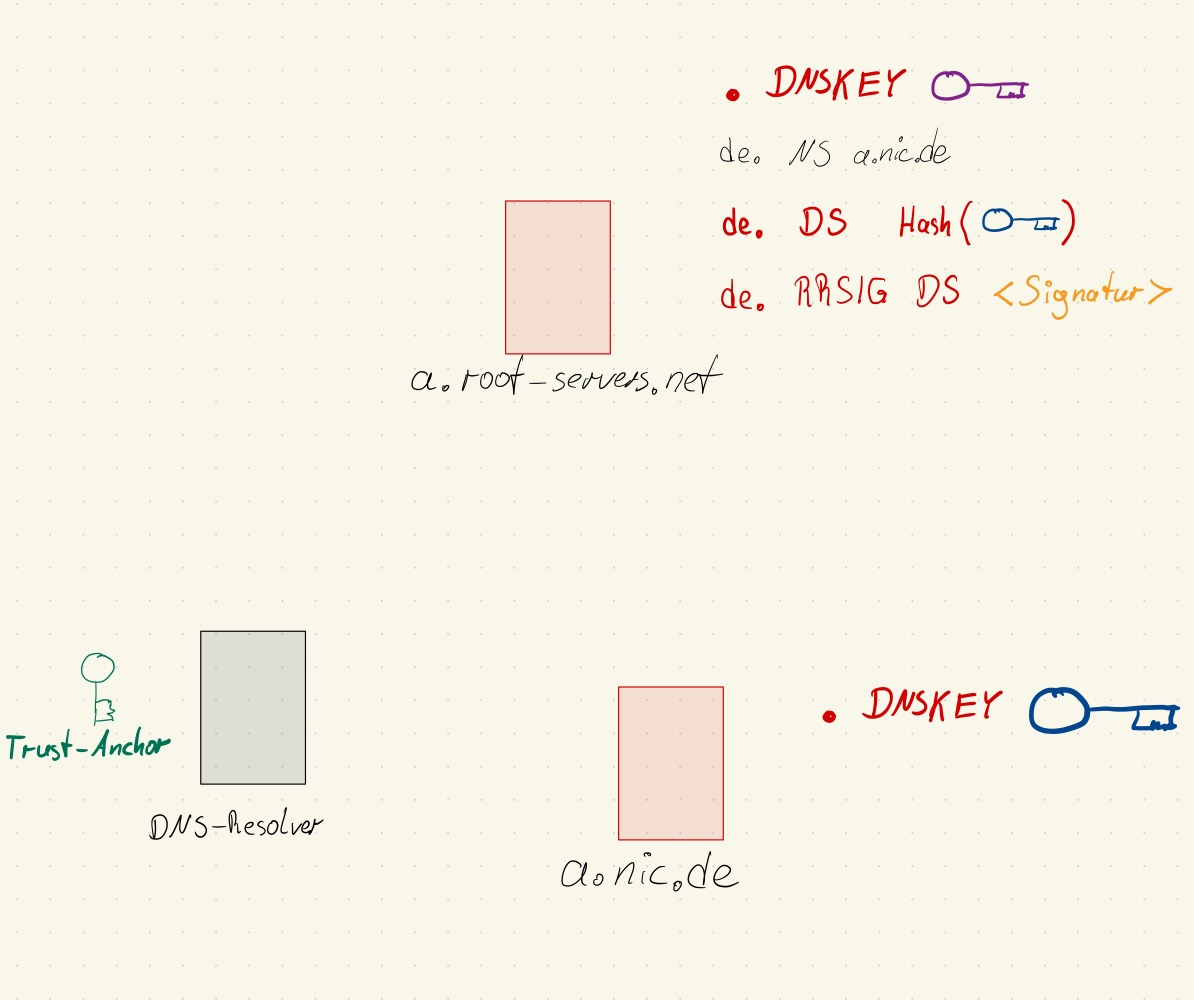
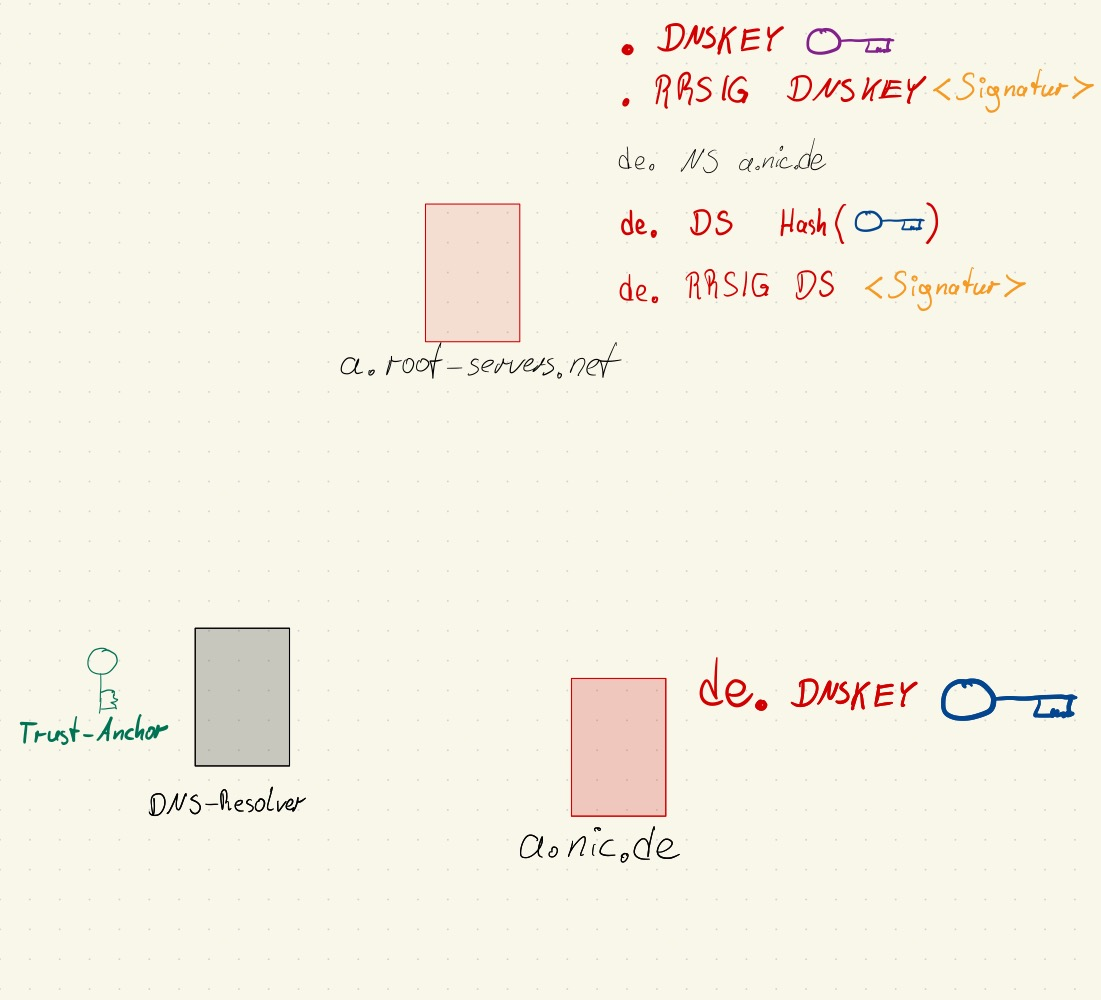
DNS-Abfrage mit DNSSEC hinzugefügt

diff --git a/LF10/lf10-01-dns2.md b/LF10/lf10-01-dns2.md
@@ -1,8 +1,8 @@
 <!--
 author:   Günter Dannoritzer
 email:    g.dannoritzer@wvs-ffm.de
-version:  0.12.0
-date:     19.08.2026
+version:  0.13.0
+date:     21.08.2026
 language: de
 narrator: Deutsch Female
 
@@ -342,9 +342,25 @@ Die rekursive Abfrage eines Resolvers nach `www.domain.de` mithilfe von DNSSEC l
 
 ## DNSSEC Konfiguration
 
+Für DNSSEC werden die zuvor besprochenen Records hinzugefügt. Die folgende Abbildung zeigt die Konfiguration des Root- und des de-Servers.
+
 ![Konfiguration für DNSSEC](02_img/lf10-01-dnssec-config.png)
+
 ## Rekursive Abfrage mit DNSSEC
 
- 1. Vor der eigentlichen DNS-Anfrage an den Root-Server fragt der DNS-Resolver den **DNSKEY** des Root-Servers ab. Der Schlüssel ist signiert und kann mit dem [**Root-Trust-Anchor**](https://data.iana.org/root-anchors/root-anchors.xml), einem öffentlichen Schlüssel, der im DNS-Resolver hinterlegt ist, überprüft werden.
- 2. Nachdem auf die Anfrage an den Root-Server der Verweis auf den `a.nic.de` geliefert wurde, wird mit eingeschaltetem DNSSEC auch das **DS-Record** für `a.nic.de` geliefert.
- 3. Als Nächstes erfolgt die Anfrage an den `a.nic.de`. Hier wird zunächst der **DNSKEY** des Servers abgefragt, dessen Hashwert mit dem vorigen **DS-Record** geliefert wurde. Der Resolver bildet jetzt selbst den Hashwert über den empfangenen Schlüssel und vergleicht ihn mit dem vom Root-Server gelieferten Hashwert. Sind beide gleich, ist die Authentizität des Schlüssels sichergestellt. 
+Die Abfrage mit aktivem DNSSEC ist zur Übersichtlichkeit unterteilt in die Abfrage an den DNS-Root-Server und an den DNS-DE-Server.
+
+![Namensauflösung an den DNS-Root-Server mit Überprüfung](02_img/lf10-01-dnssec-abfrage-root.png)
+
+ 1. Vor der eigentlichen DNS-Anfrage an den Root-Server fragt der DNS-Resolver den **DNSKEY** des Root-Servers ab. 
+ 2. Der Schlüssel ist signiert und als Antwort werden mit dem **DNSKEY-Record** der Schlüssel und mit dem **RRSIG-Record** die Signatur des Records gesendet.
+ 3. Um die Vertrauenskette aufzubauen, überprüft der Resolver die empfangene Signatur mithilfe des [**Root-Trust-Anchors**](https://data.iana.org/root-anchors/root-anchors.xml), einem öffentlichen Schlüssel, der im DNS-Resolver hinterlegt ist.
+ 4. Jetzt erfolgt die eigentliche Anfrage zur Namensauflösung für `www.domain.de`.
+ 5. Als Antwort wird neben dem Verweis auf den `a.nic.de` auch das **DS-Record** für `a.nic.de` und die zugehörige Signatur mit dem **RRSIG-Record** geliefert.
+ 6. Mithilfe des unter (1.) gefragten öffentlichen Schlüssels kann jetzt die Signatur überprüft und die Vertrauenskette bis zum Hashwert des DNSKEY für den de‑Server erweitert werden.
+
+ ![Anfrage an den de.-Server mit Überprüfung](02_img/lf10-01-dnssec-abfrage-de.png)
+
+ 1. Mit dem vom Root-Server erhaltenen Verweis auf `a.nic.de` erfolgt die Anfrage an den Server. Hier wird zunächst auch wieder der **DNSKEY** des Servers abgefragt.
+ 2. Der Schlüssel kommt als Antwort.
+ 3. Mithilfe des vom Root-Server erhaltenen Hashwerts des unter 2. empfangenen Schlüssels, kann dessen Authentizität überprüft werden. Der Resolver bildet jetzt selbst den Hashwert über den empfangenen Schlüssel und vergleicht ihn mit dem vom Root-Server gelieferten Hashwert. Sind beide gleich, ist die Authentizität des Schlüssels sichergestellt. Die Vertrauenskette wurde bis zum Schlüssel des de‑Servers erweitert.
